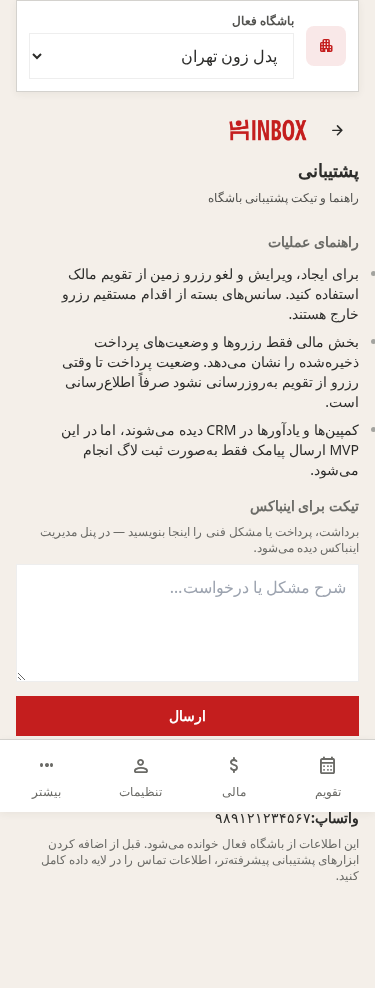
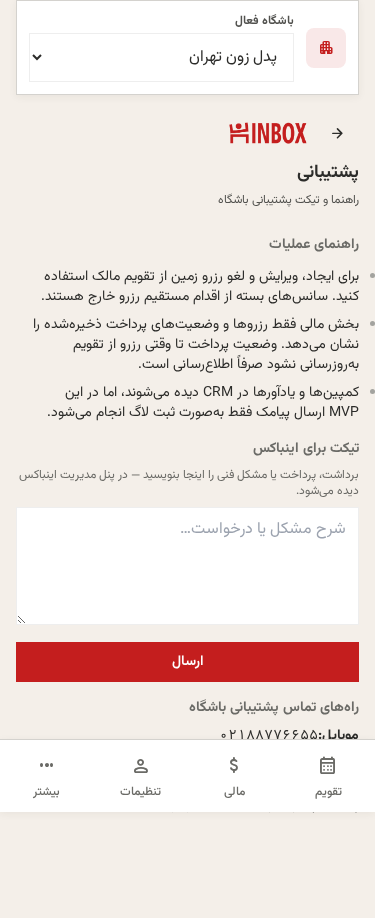
fidelity(owner-support): white flat panels, contact card under ticket, guide list spacing; add _sot exports

diff --git a/app/assets/css/main.css b/app/assets/css/main.css
@@ -4860,3 +4860,12 @@
   .owner-discount-page > .flex.justify-between > p { font-size:10px }
   .owner-discount-page ul + p, .owner-discount-page .canva-empty, .owner-discount-page ul ~ * { padding-inline-start:10px }
 }
+
+/* owner-support — SoT: white flat cxbox panels, contact card under ticket, roomy guide list */
+@media (min-width: 1024px) {
+  .owner-support-page .canva-support-wide > section { background:#fff; border-color:rgba(44,44,42,.12) !important; border-radius:0 !important }
+  .owner-support-page .canva-support-wide > section:nth-child(3) { grid-column:2 }
+  .owner-support-page .canva-support-wide > section:first-child ul { font-size:11px; line-height:2.2; margin-top:1rem }
+  .owner-support-page .canva-support-wide > section:first-child ul li::marker { color:#2c2c2a }
+  .owner-support-page .canva-support-wide .neo-input { border:1px solid rgba(44,44,42,.14); border-radius:0 }
+}

diff --git a/app/pages/owner/support.vue b/app/pages/owner/support.vue
@@ -107,7 +107,7 @@ async function submitTicket() {
 </script>
 
 <template>
-  <div class="venus-page-stack">
+  <div class="venus-page-stack owner-support-page">
     <CanvaSubpageHeader to="/owner/calendar?more=1" :title="t('owner.support')" :subtitle="t('owner.supportPage.subtitle')" />
     <OwnerActiveClubBar class="mb-3" />
 
